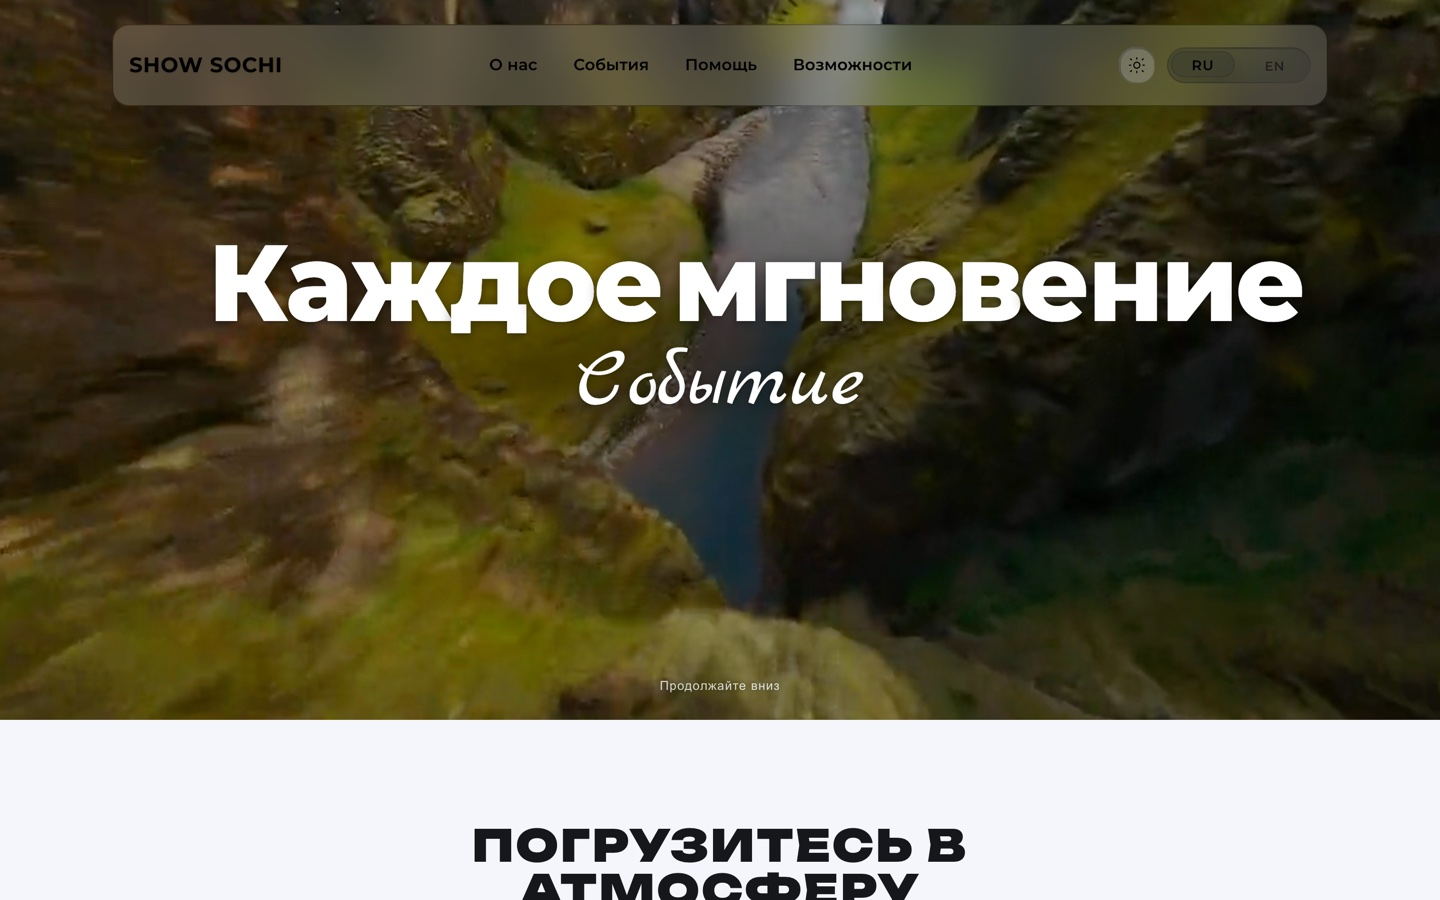
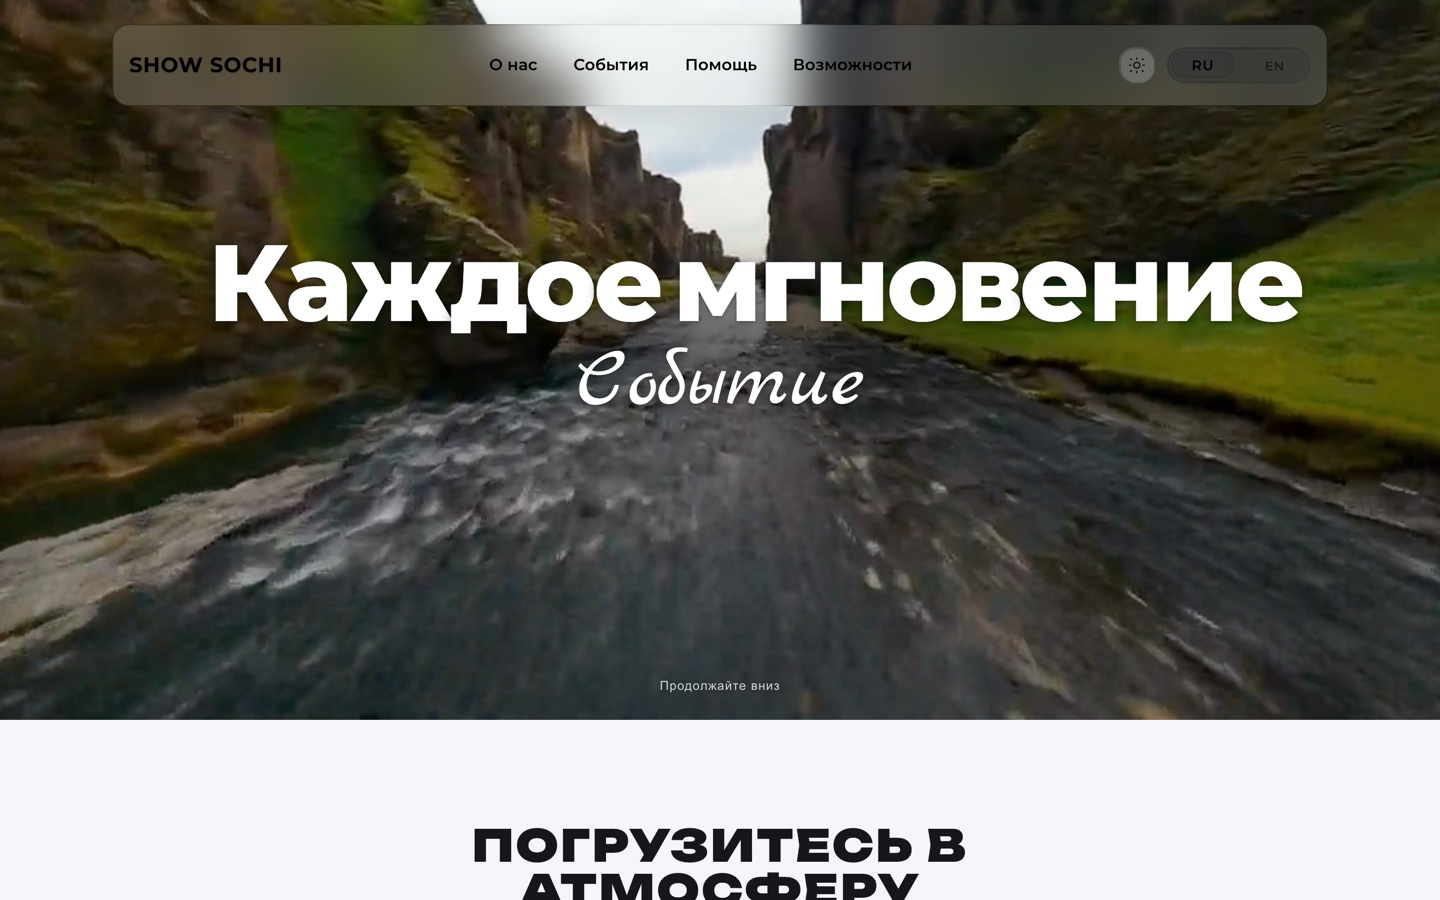
Обновить README и скриншоты под демо с фото

diff --git a/README.md b/README.md
@@ -7,6 +7,8 @@
 
 ![Первый экран](.github/assets/home-hero.jpg)
 
+![Фото-карусель](.github/assets/gallery.jpg)
+
 ---
 
 ## Стек
@@ -50,11 +52,11 @@ npm run dev
 
 ## Что в репозитории специально не лежит
 
-`public/uploads/*` и `public/video/*` в `.gitignore`: туда пишет админка на проде. В демо исключены два файла — `drone.mp4` (2.1 МБ, вместо исходных 32 МБ) и `drone-poster.jpg`, чтобы первый экран и обложка брони не были пустыми.
+`public/uploads/*` и `public/video/*` в `.gitignore`: туда пишет админка на проде. Исключения собраны в демо-набор — `public/uploads/demo/` (19 фото площадки, 3.8 МБ) и `public/video/drone.mp4` (2.1 МБ вместо исходных 32 МБ) с постером к нему. `lib/demoMedia.ts` подставляет эти файлы в карусель, карточки событий и обложки шоу, когда `Setting` недоступен; значения из базы перекрывают дефолт.
 
 ## Что проверено на демо
 
-10 маршрутов, HTTP 200, ноль ошибок в консоли, ноль битых картинок, видео в первом экране играет (`readyState 4`). `/admin` без сессии отдаёт 307 на `/admin/login`. Сборка без `DATABASE_URL` и без переменных окружения.
+10 маршрутов, HTTP 200, ноль ошибок в консоли, ноль битых картинок. На `/` 35 изображений и играющее видео (`readyState 4`), `/about` 4, `/booking` 2. `/admin` без сессии отдаёт 307 на `/admin/login`. Сборка без `DATABASE_URL` и без единой переменной окружения.
 
 ## Известные ограничения
 
